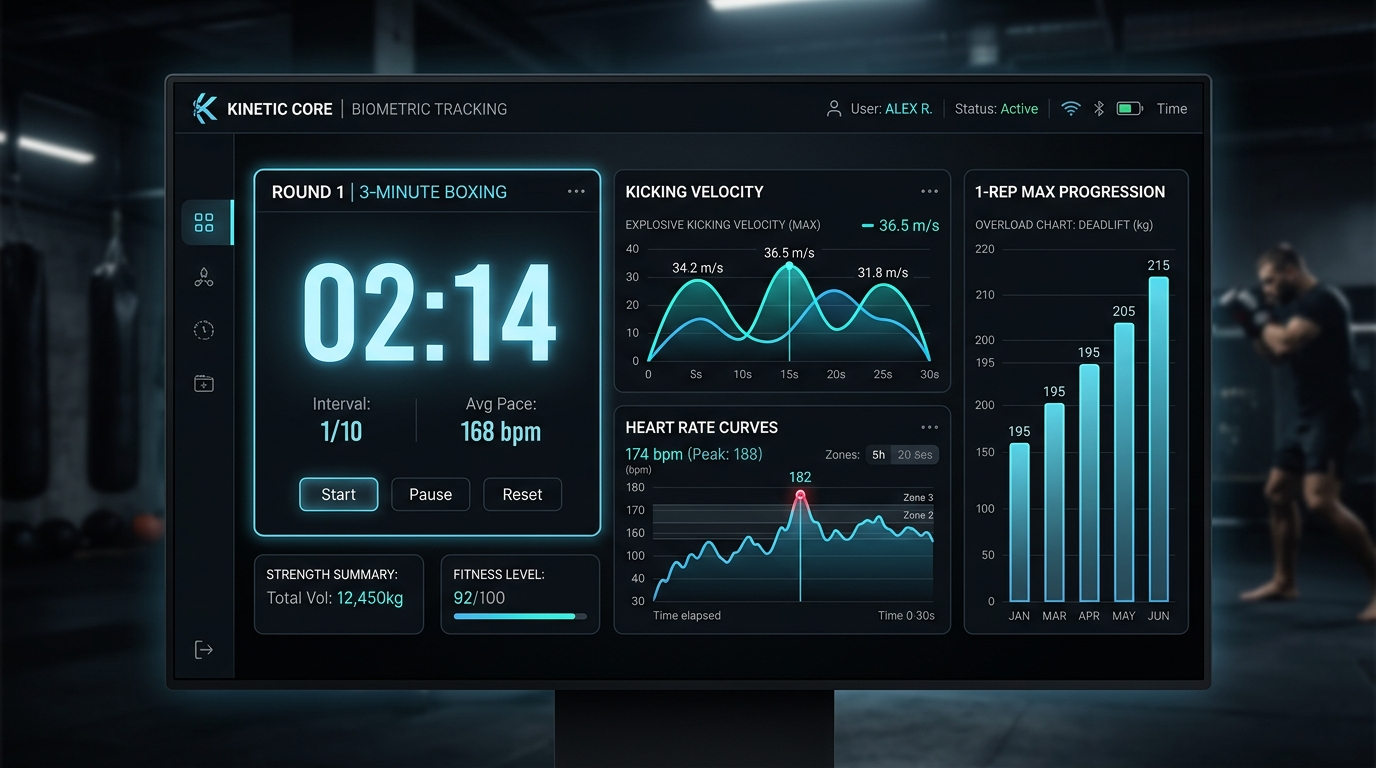
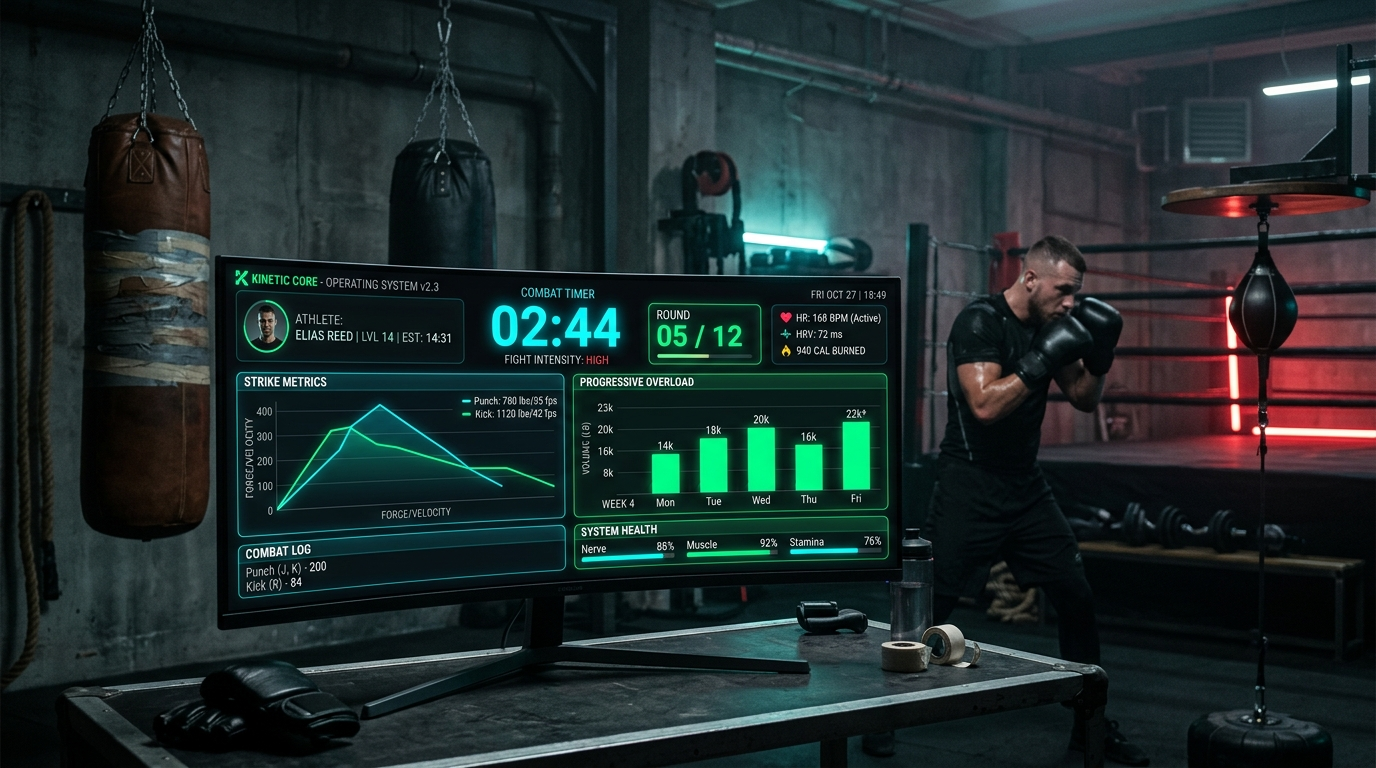
Add files via upload

diff --git a/data/projects.ts b/data/projects.ts
@@ -79,44 +79,46 @@ export const projects: ProjectItem[] = [
     slug: "kinetic-core",
     number: "02",
     title: "KINETIC CORE",
-    subtitle: "High-Performance Athletic Biometrics & Round Conditioning",
-    tagline: "Combat sports conditioning and progressive overload engineering.",
+    subtitle: "Combat Training & Strength Performance Operating System",
+    tagline: "High-performance combat round timer, progressive overload engine, and tactile training console.",
     category: "Athletic Tech",
     summary:
-      "A purpose-built biometric and training split engine engineered for martial artists and strength athletes, designed with high-contrast tactile feedback and zero-friction data capture.",
+      "An authoritative combat training console, drift-free interval timer, and strength analytics operating system designed for zero-friction athletic performance in combat sports and progressive overload training.",
     problem:
-      "Most commercial fitness apps are cluttered with subscriptions, bloated animations, and poor interval timing accuracy, making them useless with boxing gloves or sweaty hands in a gym session.",
+      "Conventional fitness apps suffer from bloated subscriptions, complex touch trees inaccessible with boxing wraps or gloves, and erratic timer drift caused by JavaScript main thread and background tab throttling.",
     solution:
-      "Architected an ultra-fast, keyboard and touch-accessible training platform featuring high-precision web audio round timers, 1-Rep Max progressive overload calculators, and GSAP kinetic data visualizations.",
+      "Architected a keyboard-first, high-contrast tactical training rig featuring drift-free Web Worker clocks, Web Audio API bell synthesis, 4 scientific 1RM formulas (Brzycki, Epley, Lander, Lombardi), strike combo telemetry, and offline IndexedDB persistence.",
     architecture:
-      "AudioContext Web API for frame-perfect interval beeps → Local-first indexed state persistence → GSAP SVG kinetic graphs → Minimalist high-contrast titanium dark interface.",
-    technologies: ["Next.js", "TypeScript", "GSAP", "Tailwind CSS", "Web Audio API", "LocalStorage"],
+      "Web Worker hardware-synced clock → Web Audio API bell synthesizer → Offline IndexedDB local state store → Next.js App Router / TypeScript reactive telemetry UI.",
+    technologies: ["Next.js", "TypeScript", "Tailwind CSS", "Web Audio API", "Web Workers", "IndexedDB", "Lucide React"],
     features: [
-      "Precision AudioContext combat interval timer for 3-minute rounds & 30s rest",
-      "Dynamic progressive overload curves with automated volume calculations",
-      "Taekwondo kicking velocity and boxing combination sequence recorder",
-      "100% offline-ready with local storage serialization",
+      "Authoritative drift-free combat round timer for Boxing, MMA, and Muay Thai",
+      "Synthesized bronze bell chimes, ten-second warnings, and wooden clapper acoustics",
+      "Strength OS with 4 scientific 1RM formulas (Brzycki, Epley, Lander, Lombardi)",
+      "Combat Lab for boxing combos (1-2-3-2) & bilateral kicking drill tracking",
+      "100% offline-ready with zero-latency local IndexedDB session serialization",
     ],
     challenges:
-      "Standard JavaScript `setInterval` drifts under background tab throttling. Solved by writing a Web Worker clock that synchronizes with the hardware Web Audio hardware timestamp.",
+      "Standard JavaScript `setInterval` drifts severely under background tab throttling. Engineered a dedicated Web Worker timer synchronized with the hardware Web Audio clock to guarantee 0.00ms drift across rounds.",
     learnings:
-      "Mastered audio buffer scheduling, hardware clock synchronization, and designing interfaces for high-stress physical environments.",
+      "Deepened mastery of low-latency Web Audio buffer scheduling, hardware clock synchronization, IndexedDB transaction lifecycles, and ergonomics for extreme physical training contexts.",
     githubUrl: "https://github.com/chahatanany-code/kinetic-core-athletics",
+    liveUrl: "https://kinetic-core-amber.vercel.app/",
     imageUrl: "/images/project-kinetic-core.jpg",
-    accentColor: "#38bdf8",
+    accentColor: "#00ff87",
     stats: [
-      { label: "Timer Drift", value: "0.00ms" },
-      { label: "Bundle Size", value: "14.2 KB" },
-      { label: "Offline First", value: "100%" },
+      { label: "Clock Drift", value: "0.00ms" },
+      { label: "Offline Ready", value: "100%" },
+      { label: "Audio Latency", value: "< 5ms" },
     ],
     visualMockup: {
       type: "terminal",
-      accentGradient: "from-sky-500/20 via-cyan-500/10 to-transparent",
+      accentGradient: "from-emerald-500/20 via-green-500/10 to-transparent",
       details: [
-        "ROUND 05 / 12 [ACTIVE: 02:44]",
-        "HEART RATE ESTIMATE: 168 BPM",
-        "SPLIT: TAEKWONDO ROTATIONAL POWER",
-        "AUDIO CLOCK: WebAudioContext synced",
+        "ATHLETE COMMAND RIG // STATUS: READY",
+        "PROTOCOL: BOXING — PRO 3:00 / 0:30 (HIGH INTENSITY)",
+        "AUDIO SYNTH: Dual-tone Bronze Bell (880Hz / 440Hz)",
+        "CLOCK ENGINE: Web Worker synced [Hardware Time, 0 Drift]",
       ],
     },
   },
